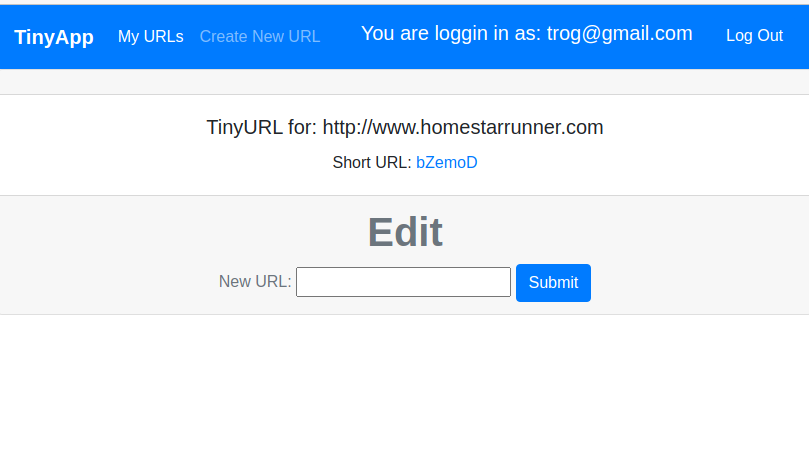
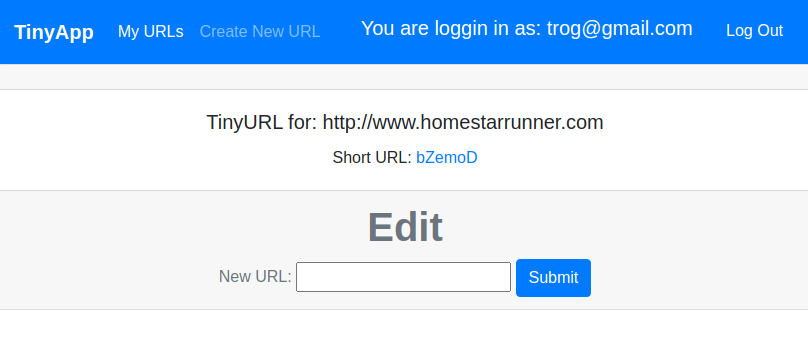
changes to crop

diff --git a/README.md b/README.md
@@ -4,9 +4,11 @@ TinyApp is a full stack web application built with Node and Express that allows 
 
 ## Final Product
 
-!["screenshot description"](#)
+!["TinyApp - Homepage"](https://raw.githubusercontent.com/0lgaP/tinyapp/master/docs/tinyapphomepage.png)
 
-!["screenshot description"](#)
+!["Enterprise grade errors!"](https://raw.githubusercontent.com/0lgaP/tinyapp/master/docs/errors.png)
+
+!["Create a new URL"](https://raw.githubusercontent.com/0lgaP/tinyapp/master/docs/createANewTinyURL.png)
 
 ## Dependencies
 
